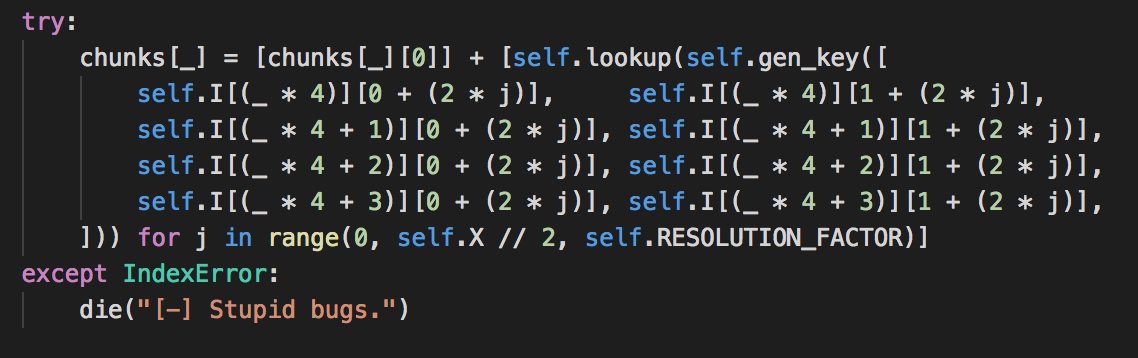
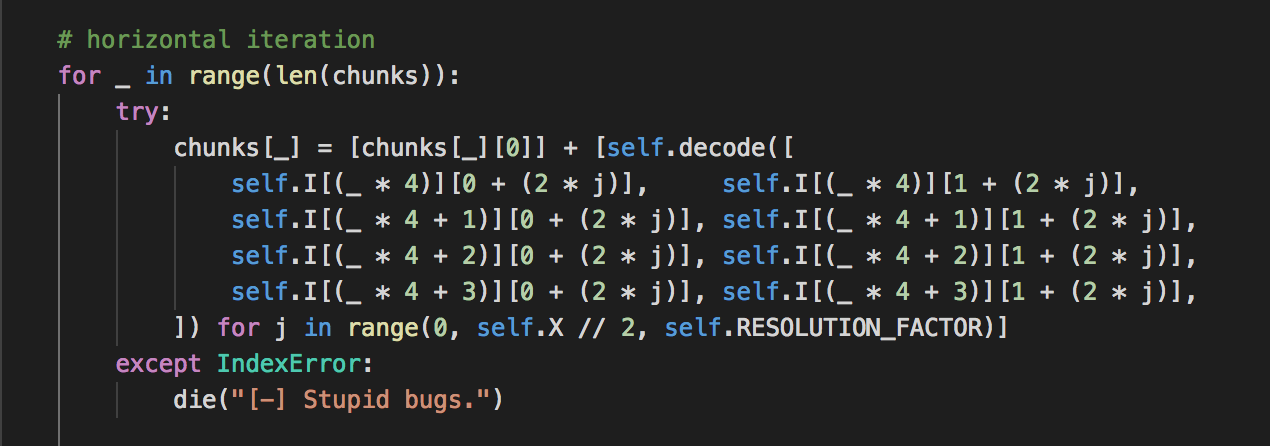
Minor changes

Changed region(s): [[0.0, 0.0307, 0.9842, 0.9218], [0.0, 0.8296, 0.0308, 0.9218]]

diff --git a/libs/dots.py b/libs/dots.py
@@ -94,6 +94,10 @@ class DotBlock:
         except KeyError:
             return self.u_braille["BLANK"][1]
 
+    # O(1)
+    def decode(self, chunk):
+        return self.lookup(self.gen_key(chunk))
+
     # O(n)
     def reassemble(self, chunks, longest_message, debug, clock=-1):
         if clock != -1:
@@ -117,74 +121,6 @@ class DotBlock:
             return reassembled, out_success(message, longest_message, clock, td)
         
         return -1
-
-    # O(n)
-    def convert_chunk(self, chunks):
-        """
-        Converts chunks to Braille symbols.
-
-        Args:
-            chunks (bool[][]): The chunks to decode
-
-        Returns:
-            A string representing a row of Braille symbols
-        """
-        # init array to hold values
-        converted = []
-
-        # iterate through, decoding each chunk
-        for chunk in chunks:
-            key = self.gen_key(chunk)
-            chunk_true = len(key)
-            # lookup value to append -- O(1)
-            converted.append(self.u_braille["BLANK"][1]) if chunk_true == 0 else converted.append(self.lookup(key))                           
-
-        # return decoded string        
-        return "".join(converted)
-    
-    # O(n)
-    def merge_chunk_row(self, arr):
-        try:
-            return [self.lookup(self.gen_key([
-                    arr[0][0 + (2 * j)], arr[0][1 + (2 * j)],
-                    arr[1][0 + (2 * j)], arr[1][1 + (2 * j)],
-                    arr[2][0 + (2 * j)], arr[2][1 + (2 * j)],
-                    arr[3][0 + (2 * j)], arr[3][1 + (2 * j)],            
-                ])) for j in range(len(arr[0]) // 2)]
-        except IndexError:
-            die("[-] Stupid bugs.")
-
-    # O(n^2)
-    def merge_chunk(self, arr, first_run=True):
-        """
-        Converts chunks to Braille symbols recursively.
-
-        Args:
-            arr (bool[]): The chunks to decode
-
-        Returns:
-            A grid of Braille symbols
-        """
-        # return chunk
-        if len(arr) == 4:           
-            self.GLOBAL_MERGE_COUNT += 1
-
-            # O(n)
-            return self.merge_chunk_row(arr)            
-        # split array
-        elif len(arr) > 4:
-            left = self.merge_chunk(arr[:len(arr)//2], first_run=False)
-            right = self.merge_chunk(arr[len(arr)//2:], first_run=False)
-
-            current_progress = self.GLOBAL_MERGE_COUNT / (self.Y // 4)
-            
-            show_current_progress(current_progress, "[*] Merge chunking...")
-            merge = left + right
-
-            return merge
-        # shouldn't be here, something went wrong during initialization
-        else:
-            die("[!] Underflow")
 
     # O(n)
     def generate_chunks(self, chunks, longest_message, debug, clock=-1):
@@ -219,12 +155,12 @@ class DotBlock:
             '''           
             # chunk section
             try:
-                chunk = self.lookup(self.gen_key([
+                chunk = self.decode([
                     self.I[_ * 4][0],     self.I[_ * 4][1],
                     self.I[_ * 4 + 1][0], self.I[_ * 4 + 1][1],
                     self.I[_ * 4 + 2][0], self.I[_ * 4 + 2][1],
                     self.I[_ * 4 + 3][0], self.I[_ * 4 + 3][1],            
-                ]))
+                ])
             except IndexError:
                 die("[-] Stupid bugs.")
 
@@ -265,15 +201,15 @@ class DotBlock:
     
         message = "[*] Initializing..."
 
-        # chunk section
+        # horizontal iteration
         for _ in range(len(chunks)):
             try:
-                chunks[_] = [chunks[_][0]] + [self.lookup(self.gen_key([
+                chunks[_] = [chunks[_][0]] + [self.decode([
                     self.I[(_ * 4)][0 + (2 * j)],     self.I[(_ * 4)][1 + (2 * j)],
                     self.I[(_ * 4 + 1)][0 + (2 * j)], self.I[(_ * 4 + 1)][1 + (2 * j)],
                     self.I[(_ * 4 + 2)][0 + (2 * j)], self.I[(_ * 4 + 2)][1 + (2 * j)],
                     self.I[(_ * 4 + 3)][0 + (2 * j)], self.I[(_ * 4 + 3)][1 + (2 * j)],            
-                ])) for j in range(0, self.X // 2, self.RESOLUTION_FACTOR)]
+                ]) for j in range(0, self.X // 2, self.RESOLUTION_FACTOR)]
             except IndexError:
                 die("[-] Stupid bugs.")
 
@@ -285,46 +221,6 @@ class DotBlock:
         if clock != -1:
             td = time.clock()
             return out_success(message, longest_message, clock, td)
-        
-        return -1
-    
-    # O(n^2)
-    def decode_chunks(self, chunks, longest_message, debug, clock=-1):
-        """
-        Convert chunks to Braille symbols.
-
-        Args:
-            chunks(int): Re-grouped image data
-
-            longest_message (str): Longest message displayed on console
-
-            debug (bool): Show additional information
-
-            clock (float, optional): Show operation times. Defaults to -1 which means no info will be shown.
-        
-        Returns:
-            outfile (Unicode[]): Array of braille symbols
-
-            td: Clock information
-        """
-        show_progress = True
-
-        outfile = []
-        message = "[*] Decoding..."
-
-        # chunk the image
-        for c in range(len(chunks)): # rows of braille unicode
-            row = self.convert_chunk(chunks[c])
-            outfile.append(row)
-
-            # update progress
-            if show_progress:
-                current_progress = c / (len(chunks) - 1)
-                show_progress = show_current_progress(current_progress, message, debug=debug)
-        
-        if clock != -1:
-            td = time.clock()
-            return outfile, out_success(message, longest_message, clock, td)
         
         return -1
 
@@ -398,10 +294,10 @@ class DotBlock:
             
             # process is O(n) + O(n^2) + O(n) + O(n) = O(n^2 + 3n)
             if not float_size:
-                # generate chunks: O(n)
+                # generate starting chunks: O(n)
                 td = self.generate_chunks(chunks, longest_message, debug=debug, clock=td)
                 
-                # initialize chunks: O(n^2)
+                # initialize remaining chunks: O(n^2)
                 td = self.initialize_chunks(chunks, longest_message, debug=debug, clock=td)
 
                 # reassemble: O(n)
@@ -412,7 +308,7 @@ class DotBlock:
             
                 if debug:
                     print_stats(self.stats)
-            # merge decode: O(n log 2n^2)
+            # merge decode: O(n^2)
             else:
                 merge = self.merge_chunk(self.I)
                 td2 = time.clock()
@@ -423,7 +319,7 @@ class DotBlock:
 
                 show_progress = True
                 message = "[*] Writing to file..."
-                # write to file -- O(n)
+                
                 with open(filename, "w") as f:
                     for line in range(len(merge)):
                         f.write(merge[line] + "\n")
@@ -471,12 +367,12 @@ class DotBlock:
                         
                         # chunk section
                         try:
-                            chunk = self.lookup(self.gen_key([
+                            chunk = self.decode([
                                 self.I[i * 4][j * 2],     self.I[i * 4][j * 2 + 1],
                                 self.I[i * 4 + 1][j * 2], self.I[i * 4 + 1][j * 2 + 1],
                                 self.I[i * 4 + 2][j * 2], self.I[i * 4 + 2][j * 2 + 1],
                                 self.I[i * 4 + 3][j * 2], self.I[i * 4 + 3][j * 2 + 1],            
-                            ]))
+                            ])
                         except IndexError:
                             die("[-] Stupid bugs.")
 
@@ -500,3 +396,48 @@ class DotBlock:
         print(DIVIDER)
         print("[+] Output sent to {}.".format(filename))
     
+    ## Experimental algorithms
+
+    # O(n)
+    def merge_chunk_row(self, arr):
+        try:
+            return [self.lookup(self.gen_key([
+                    arr[0][0 + (2 * j)], arr[0][1 + (2 * j)],
+                    arr[1][0 + (2 * j)], arr[1][1 + (2 * j)],
+                    arr[2][0 + (2 * j)], arr[2][1 + (2 * j)],
+                    arr[3][0 + (2 * j)], arr[3][1 + (2 * j)],            
+                ])) for j in range(len(arr[0]) // 2)]
+        except IndexError:
+            die("[-] Stupid bugs.")
+
+    # O(n^2)
+    def merge_chunk(self, arr, first_run=True):
+        """
+        Converts chunks to Braille symbols recursively.
+
+        Args:
+            arr (bool[]): The chunks to decode
+
+        Returns:
+            A grid of Braille symbols
+        """
+        # return chunk
+        if len(arr) == 4:           
+            self.GLOBAL_MERGE_COUNT += 1
+
+            # O(n)
+            return self.merge_chunk_row(arr)            
+        # split array
+        elif len(arr) > 4:
+            left = self.merge_chunk(arr[:len(arr)//2], first_run=False)
+            right = self.merge_chunk(arr[len(arr)//2:], first_run=False)
+
+            current_progress = self.GLOBAL_MERGE_COUNT / (self.Y // 4)
+            
+            show_current_progress(current_progress, "[*] Merge chunking...")
+            merge = left + right
+
+            return merge
+        # shouldn't be here, something went wrong during initialization
+        else:
+            die("[!] Underflow")
